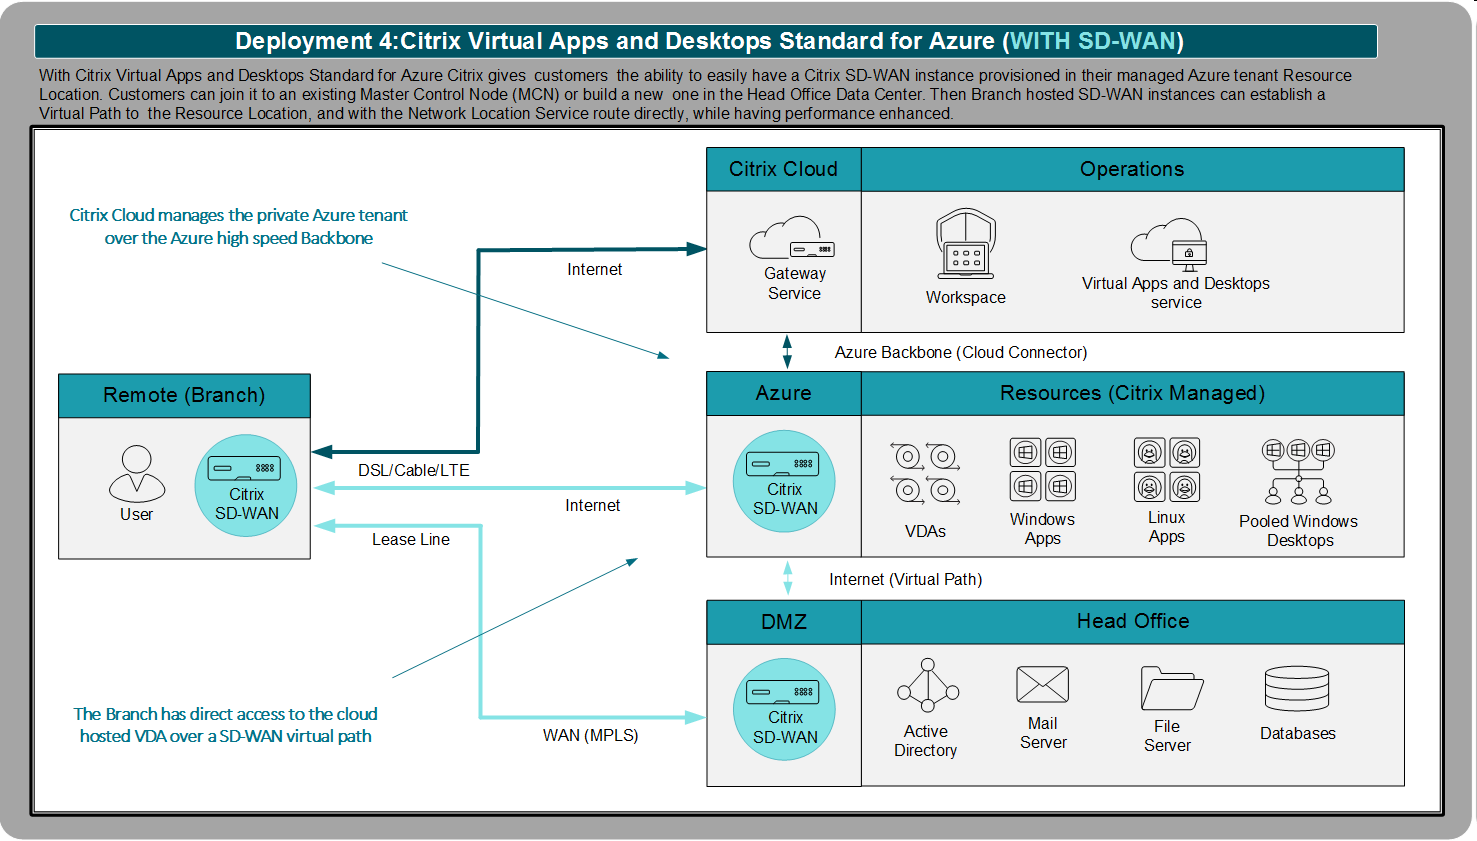
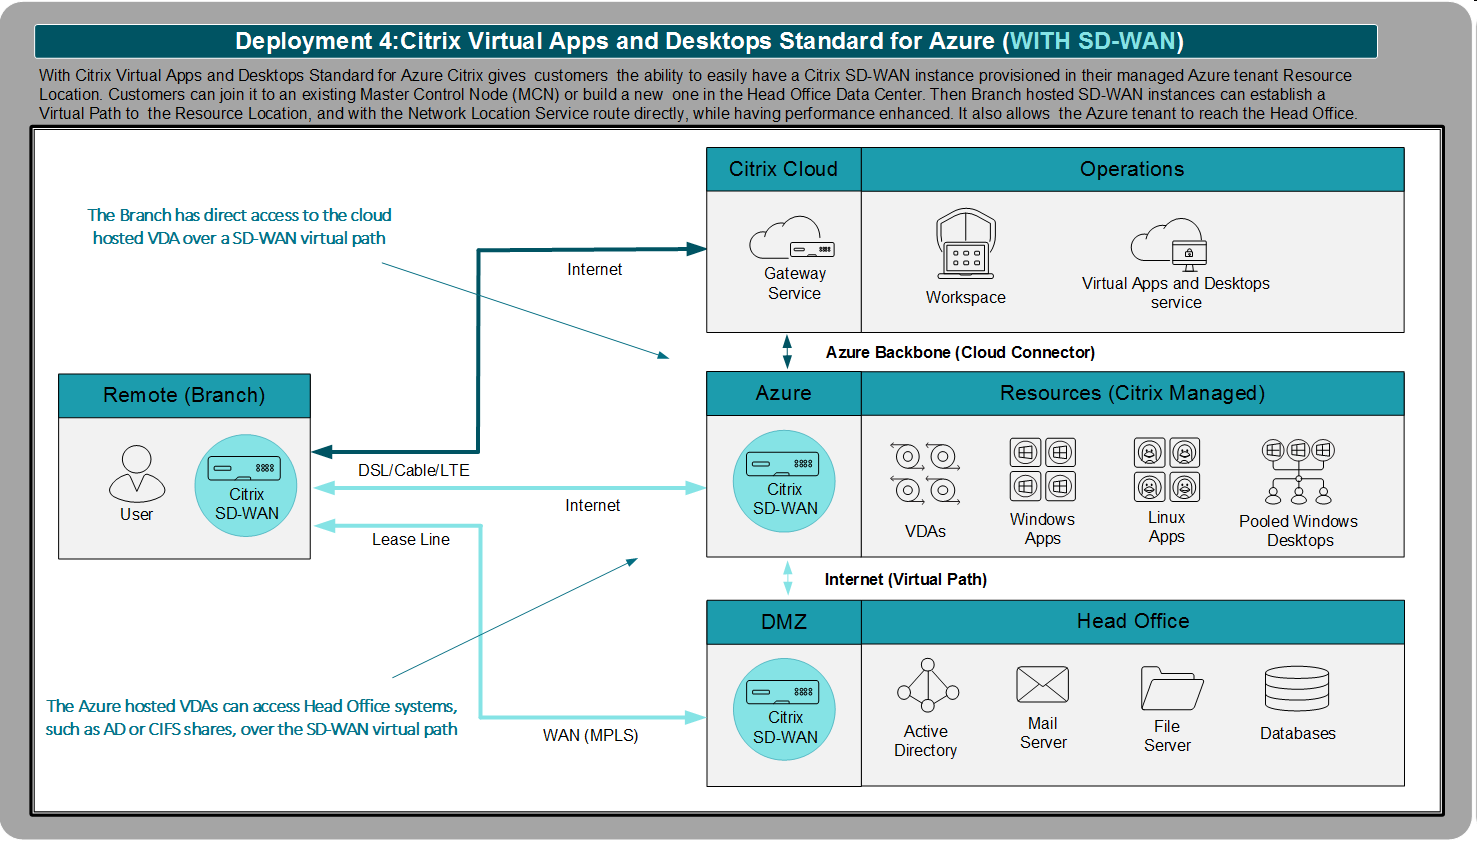
diagram updates

diff --git a/en-us/tech-zone/learn/tech-briefs/sdwan-deployment-scenarios.md b/en-us/tech-zone/learn/tech-briefs/sdwan-deployment-scenarios.md
@@ -54,26 +54,26 @@ For more information see the [Citrix Virtual Apps and Desktops - Component Archi
 
 ### Deployment 2: Citrix Virtual Apps and Desktops Service with resources on-premises
 
-As Citrix customers move to the cloud, their first step is often to use the Citrix Virtual Apps and Desktops service to manage their virtual apps, and desktops workloads hosted at their on-premises locations. Citrix takes over maintaining the control systems, while customers can continue to manage their environments through Citrix Cloud.
+As Citrix customers move to the cloud, their first step is often to use the Citrix Virtual Apps and Desktops service to manage their virtual app, and desktop workloads hosted at their on-premises locations. Citrix takes over maintaining the control systems, while customers can continue to manage their environments through Citrix Cloud.
 
 [![Scenarios 2 - Without SD-WAN](/en-us/tech-zone/learn/media/tech-briefs_sdwan-deployment-scenarios_scenarios2withoutsdwan.png)](/en-us/tech-zone/learn/media/tech-briefs_sdwan-deployment-scenarios_scenarios2withoutsdwan.png)
 
-Although, in this scenario, while managing operations through the Citrix Cloud service is simplified, network connectivity may not be. Session traffic is directed to the nearest Citrix Gateway service PoP. From there, it is proxied to the resource locations. While there are many PoP locations around the world, for endpoints in Remote Branches on the WAN, this step can add latency.
+Although, in this scenario, while managing operations through the Citrix Cloud is simplified, network connectivity may not be. Session traffic is directed to the nearest Citrix Gateway service PoP. From there, it is proxied to the resource locations. While there are many PoP locations around the world, for endpoints in Remote Branches on the WAN, this step can add latency.
 
-To address this scenario Citrix introduced [Direct Workload Connection](/en-us/citrix-workspace/workspace-network-location.html) via a new Network Location Service (NLS). It enables session flows from Remote Branch hosted endpoints to access VDAs directly across the WAN. It identifies endpoints located on the Internal Network IP address ranges, and provides them with connection information to access VDAs directly on the Internal Network.
+To address this scenario Citrix introduced [Direct Workload Connection](/en-us/citrix-workspace/workspace-network-location.html) via a new Network Location service (NLS). It enables session flows from Remote Branch hosted endpoints to access VDAs directly across the WAN. It identifies endpoints located on the Internal Network IP address ranges, and provides them with connection information to access VDAs directly on the Internal Network.
 
 However, NLS requires branch public IP address ranges to be preconfigured. Branches that use DSL or Cable Modems use dynamic IPs that can change frequently. Home Offices can have the same issue, and can number in the tens of thousands making it too difficult to track, and update manually.
 
 Citrix SD-WAN offers a solution to these issues, and provides other benefits in this scenario including:
 
 *  **Reducing latency through NLS** and resolving issues where dynamic IP addresses are used by detecting endpoint public IP addresses and updating the NLS automatically
-*  **Providing replacement of the high-cost MPLS** links to Head Offices / Data Centers
-*  **Providing deep visibility into HDX traffic** enabling IT to monitor User Experience, and proactively act in the event there is degradation
+*  **Ability to replace high-cost MPLS** links to Head Offices / Data Centers
+*  **Providing deep visibility into HDX traffic** allowing IT to monitor User Experience, and proactively act in the event there is degradation
 *  **Citrix Cloud and Gateway Service internet breakout policy** allowing First Packet Classification, facilitating direct internet breakout from the SD-WAN branch, which reduces latency for endpoints that are unable to access StoreFront and VDAs directly over the Internal Network
 
 [![Scenarios 2 - With SD-WAN](/en-us/tech-zone/learn/media/tech-briefs_sdwan-deployment-scenarios_scenarios2withsdwan.png)](/en-us/tech-zone/learn/media/tech-briefs_sdwan-deployment-scenarios_scenarios2withsdwan.png)
 
-### Deployment 3: Citrix Virtual Apps, and Desktops Service with VDAs in the cloud, other resources on-premises
+### Deployment 3: Citrix Virtual Apps, and Desktops Service with VDAs in the cloud, and other resources on-premises
 
 In this deployment, Citrix provides a service to manage resources located both in the cloud and on-prem locations. The adoption rate of this deployment is high due to benefits including reduced complexity, and cost. Nonetheless, the complexity around network connectivity continues to provide some challenges. Citrix SD-WAN offers a simple, cost-effective solution. The figure below is a typical topology without Citrix SD-WAN where the VDAs are in public clouds, but the data servers and the Active Directory servers are located at the on-premises location.
 
@@ -97,17 +97,17 @@ Citrix Virtual Apps and Desktops Standard for Azure (DaaS offering) makes it eas
 
 [![Scenarios 4 - Without SD-WAN](/en-us/tech-zone/learn/media/tech-briefs_sdwan-deployment-scenarios_scenarios4withoutsdwan.png)](/en-us/tech-zone/learn/media/tech-briefs_sdwan-deployment-scenarios_scenarios4withoutsdwan.png)
 
-SD-WAN technology is now integrated in the Citrix Virtual Apps and Desktops Standard for Azure to simplify network connectivity from your cloud-hosted desktops to On-premises resources such as Active Directory, and data sources.
+SD-WAN technology is now integrated in the Citrix Virtual Apps and Desktops Standard for Azure to simplify network connectivity from your cloud-hosted desktops to on-premises resources such as Active Directory, and data sources.
 
 For Branches the integrated SD-WAN solution significantly cuts down the network connectivity cost, and enhances the user experience. Clients connect to the Citrix Virtual Apps and Desktops Standard for Azure over a secure virtual path, via available links, with HDX session traffic prioritized by ICA class for optimal user experience.
 
 [![Scenarios 4 - With SD-WAN](/en-us/tech-zone/learn/media/tech-briefs_sdwan-deployment-scenarios_scenarios4withsdwan.png)](/en-us/tech-zone/learn/media/tech-briefs_sdwan-deployment-scenarios_scenarios4withsdwan.png)
 
-### Deployment 5: Citrix SD-WAN Cloud Direct service for Citrix Virtual Apps and Desktops Standard for Azure and Citrix Virtual Apps and Desktops Service use cases
+### Deployment 5: Citrix SD-WAN Cloud Direct Service for Citrix Virtual Apps and Desktops Standard for Azure and Citrix Virtual Apps and Desktops Service use cases
 
 SD-WAN Cloud Direct is a service that provides many of the benefits of SD-WAN virtual paths, without the need to install SD-WAN in the cloud. It is a good alternative for customers who are unable to manage their own virtual SD-WAN instances in the cloud. Cloud Direct supports connecting to virtual apps and desktops in the cloud, including Citrix Virtual Apps and Desktops, Citrix Virtual Apps and Desktops Standard for Azure and Microsoft Windows Virtual Desktops. Complementing Cloud Direct, Citrix SD-WAN also supports connectivity from virtual apps and desktop host virtual machines to on-prem resources (For example databases, back-end servers).
 
-Citrix has multiple Cloud Direct PoPs around the world that are peered with most public cloud, and SaaS providers. Customers providing access to SaaS applications, Citrix Virtual Apps and Desktops Standard for Azure / Citrix Virtual Apps and Desktops Service / Windows Virtual Desktops, and other cloud providers can use this service to improve application response times. It is especially valuable for organizations accessing applications hosted by third parties. Most cloud providers charge for data leaving the cloud. So, putting SD-WAN in the cloud can add extra cost to the customer. These network bandwidth charges can be avoided using the Cloud Direct service. Here are additional benefits of using the Cloud Direct service:
+Citrix has multiple Cloud Direct service PoPs around the world that are peered with most public cloud, and SaaS providers. Customers providing access to SaaS applications, Citrix Virtual Apps and Desktops Standard for Azure / Citrix Virtual Apps and Desktops service / Windows Virtual Desktops, and other cloud providers can use this service to improve application response times. It is especially valuable for organizations accessing applications hosted by third parties. Most cloud providers charge for data leaving the cloud. So, putting SD-WAN in the cloud can add extra cost to the customer. These network bandwidth charges can be avoided using the Cloud Direct service. Here are additional benefits of using the Cloud Direct service:
 
 *  **Improved SaaS performance**: Cloud Direct service can identify your most critical application traffic, and ensure that it’s always prioritized
 *  **VoIP, and UCaaS protection**: Provide a consistent VoIP, and UCaaS connection regardless of outages, lag, packet loss or jitter
@@ -121,13 +121,13 @@ Citrix has multiple Cloud Direct PoPs around the world that are peered with most
 
 [![Scenarios 5 - Azure With SD-WAN](/en-us/tech-zone/learn/media/tech-briefs_sdwan-deployment-scenarios_scenarios5azurewithsdwan.png)](/en-us/tech-zone/learn/media/tech-briefs_sdwan-deployment-scenarios_scenarios5azurewithsdwan.png)
 
-Getting better experience to **Citrix Virtual Apps and Desktops Service** through the Citrix Cloud service is no different. Customers can choose a SD-WAN book-ended solution for network connectivity between Head office, and Cloud DC.
+Getting better experience to **Citrix Virtual Apps and Desktops service** through the Citrix Cloud is no different.
 
 [![Scenarios 5 - Citrix Virtual Apps, and Desktops Service With SD-WAN](/en-us/tech-zone/learn/media/tech-briefs_sdwan-deployment-scenarios_scenarios5cvadswithsdwan.png)](/en-us/tech-zone/learn/media/tech-briefs_sdwan-deployment-scenarios_scenarios5cvadswithsdwan.png)
 
 #### Solution for Remote Worker
 
-In the wake of recent events, many remote users experiencing poor call, and video conferencing quality in their home offices. Accessing critical SaaS applications, including Unified Communications as a Service, and Citrix virtual applications, and desktops with quality performance, and experience is of the utmost importance. Most home users have a single broadband Internet connection. Citrix SD-WAN Cloud Direct solves some of the most common home networking challenges by using QoS to prioritize business apps. Citrix SD-WAN Cloud Direct has a built-in capability to identify, and prioritize traffic to Citrix Virtual Apps and Desktops Service for Azure and Citrix Virtual Apps and Desktops service. This enables it to significantly improve the user experience. Therefore, by implementing a Citrix SD-WAN appliance in their home office Enterprises can improve Remote Worker’s user experience.
+In the wake of recent events, many remote users experiencing poor call, and video conferencing quality in their home offices. Accessing critical SaaS applications, including Unified Communications as a Service, and Citrix virtual applications, and desktops with quality performance, and experience is of the utmost importance. Most home users have a single broadband Internet connection. Citrix SD-WAN Cloud Direct solves some of the most common home networking challenges by using QoS to prioritize business apps. Citrix SD-WAN Cloud Direct has a built-in capability to identify, and prioritize traffic to Citrix Virtual Apps and Desktops service for Azure and Citrix Virtual Apps and Desktops service. This enables it to significantly improve the user experience. Therefore, by implementing a Citrix SD-WAN appliance in their home office Enterprises can improve Remote Worker’s user experience.
 
 For more information see [Citrix SD-WAN Cloud Direct service overview](/en-us/tech-zone/learn/tech-briefs/sdwan-cloud-direct.html)
 
